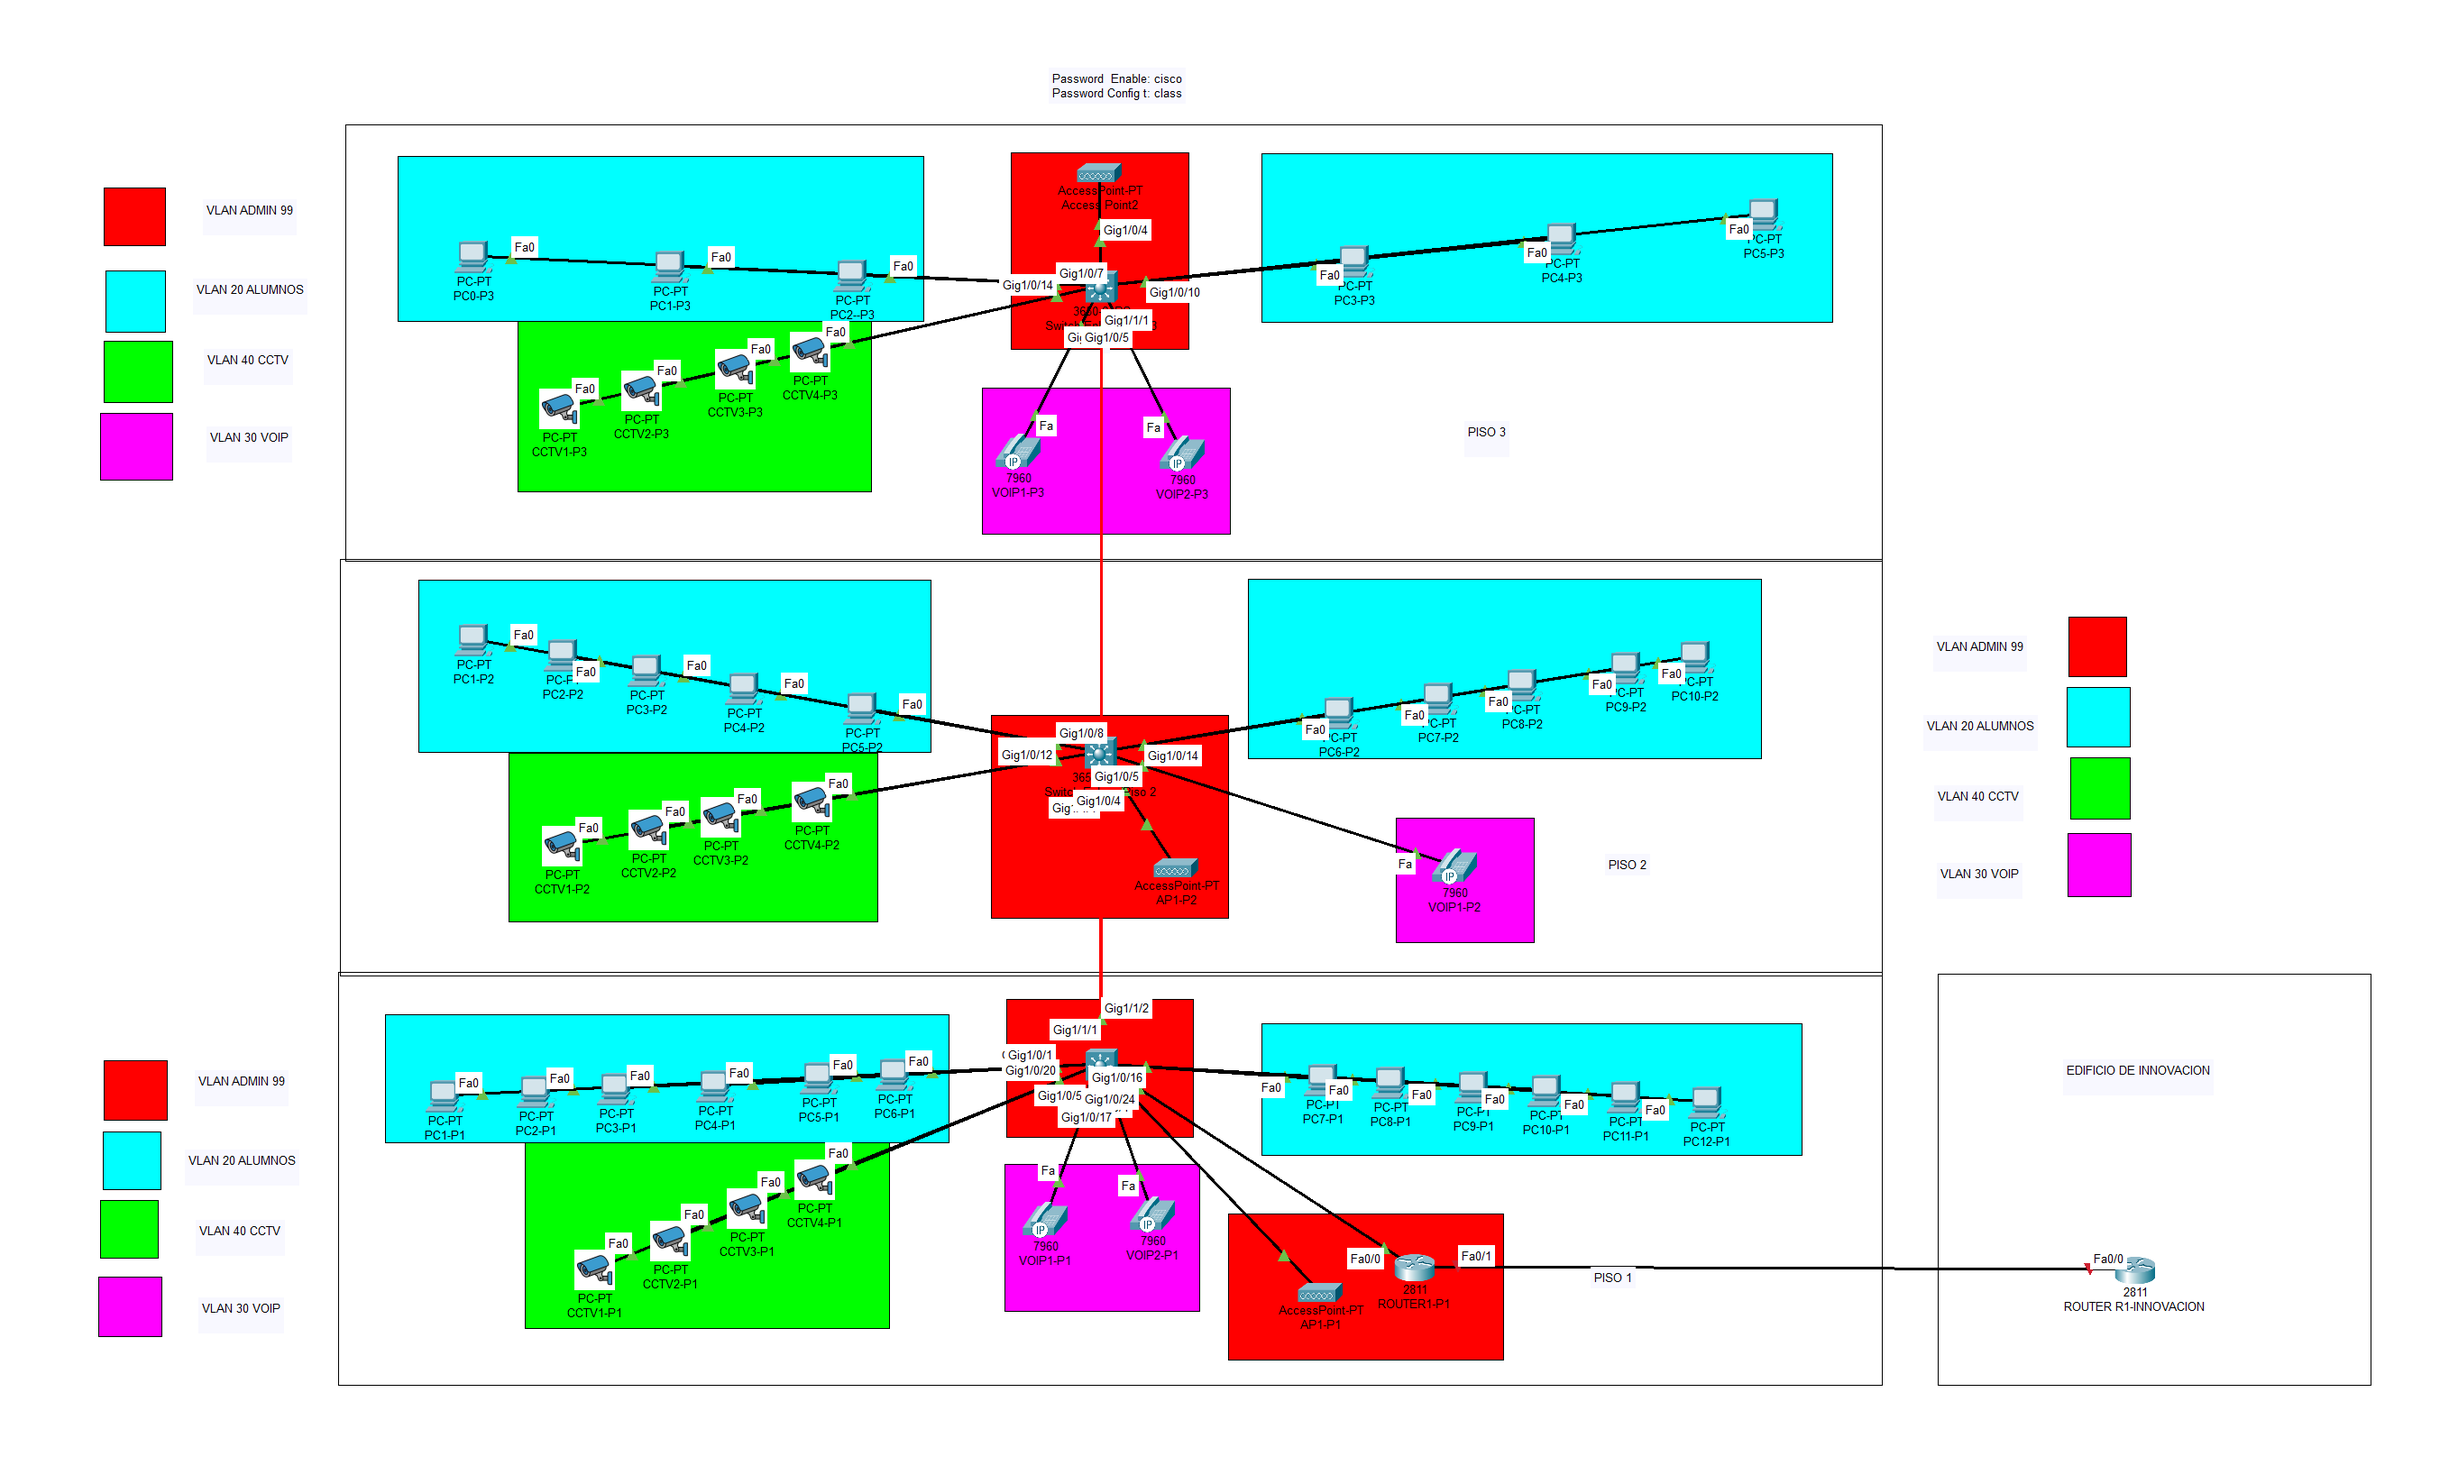
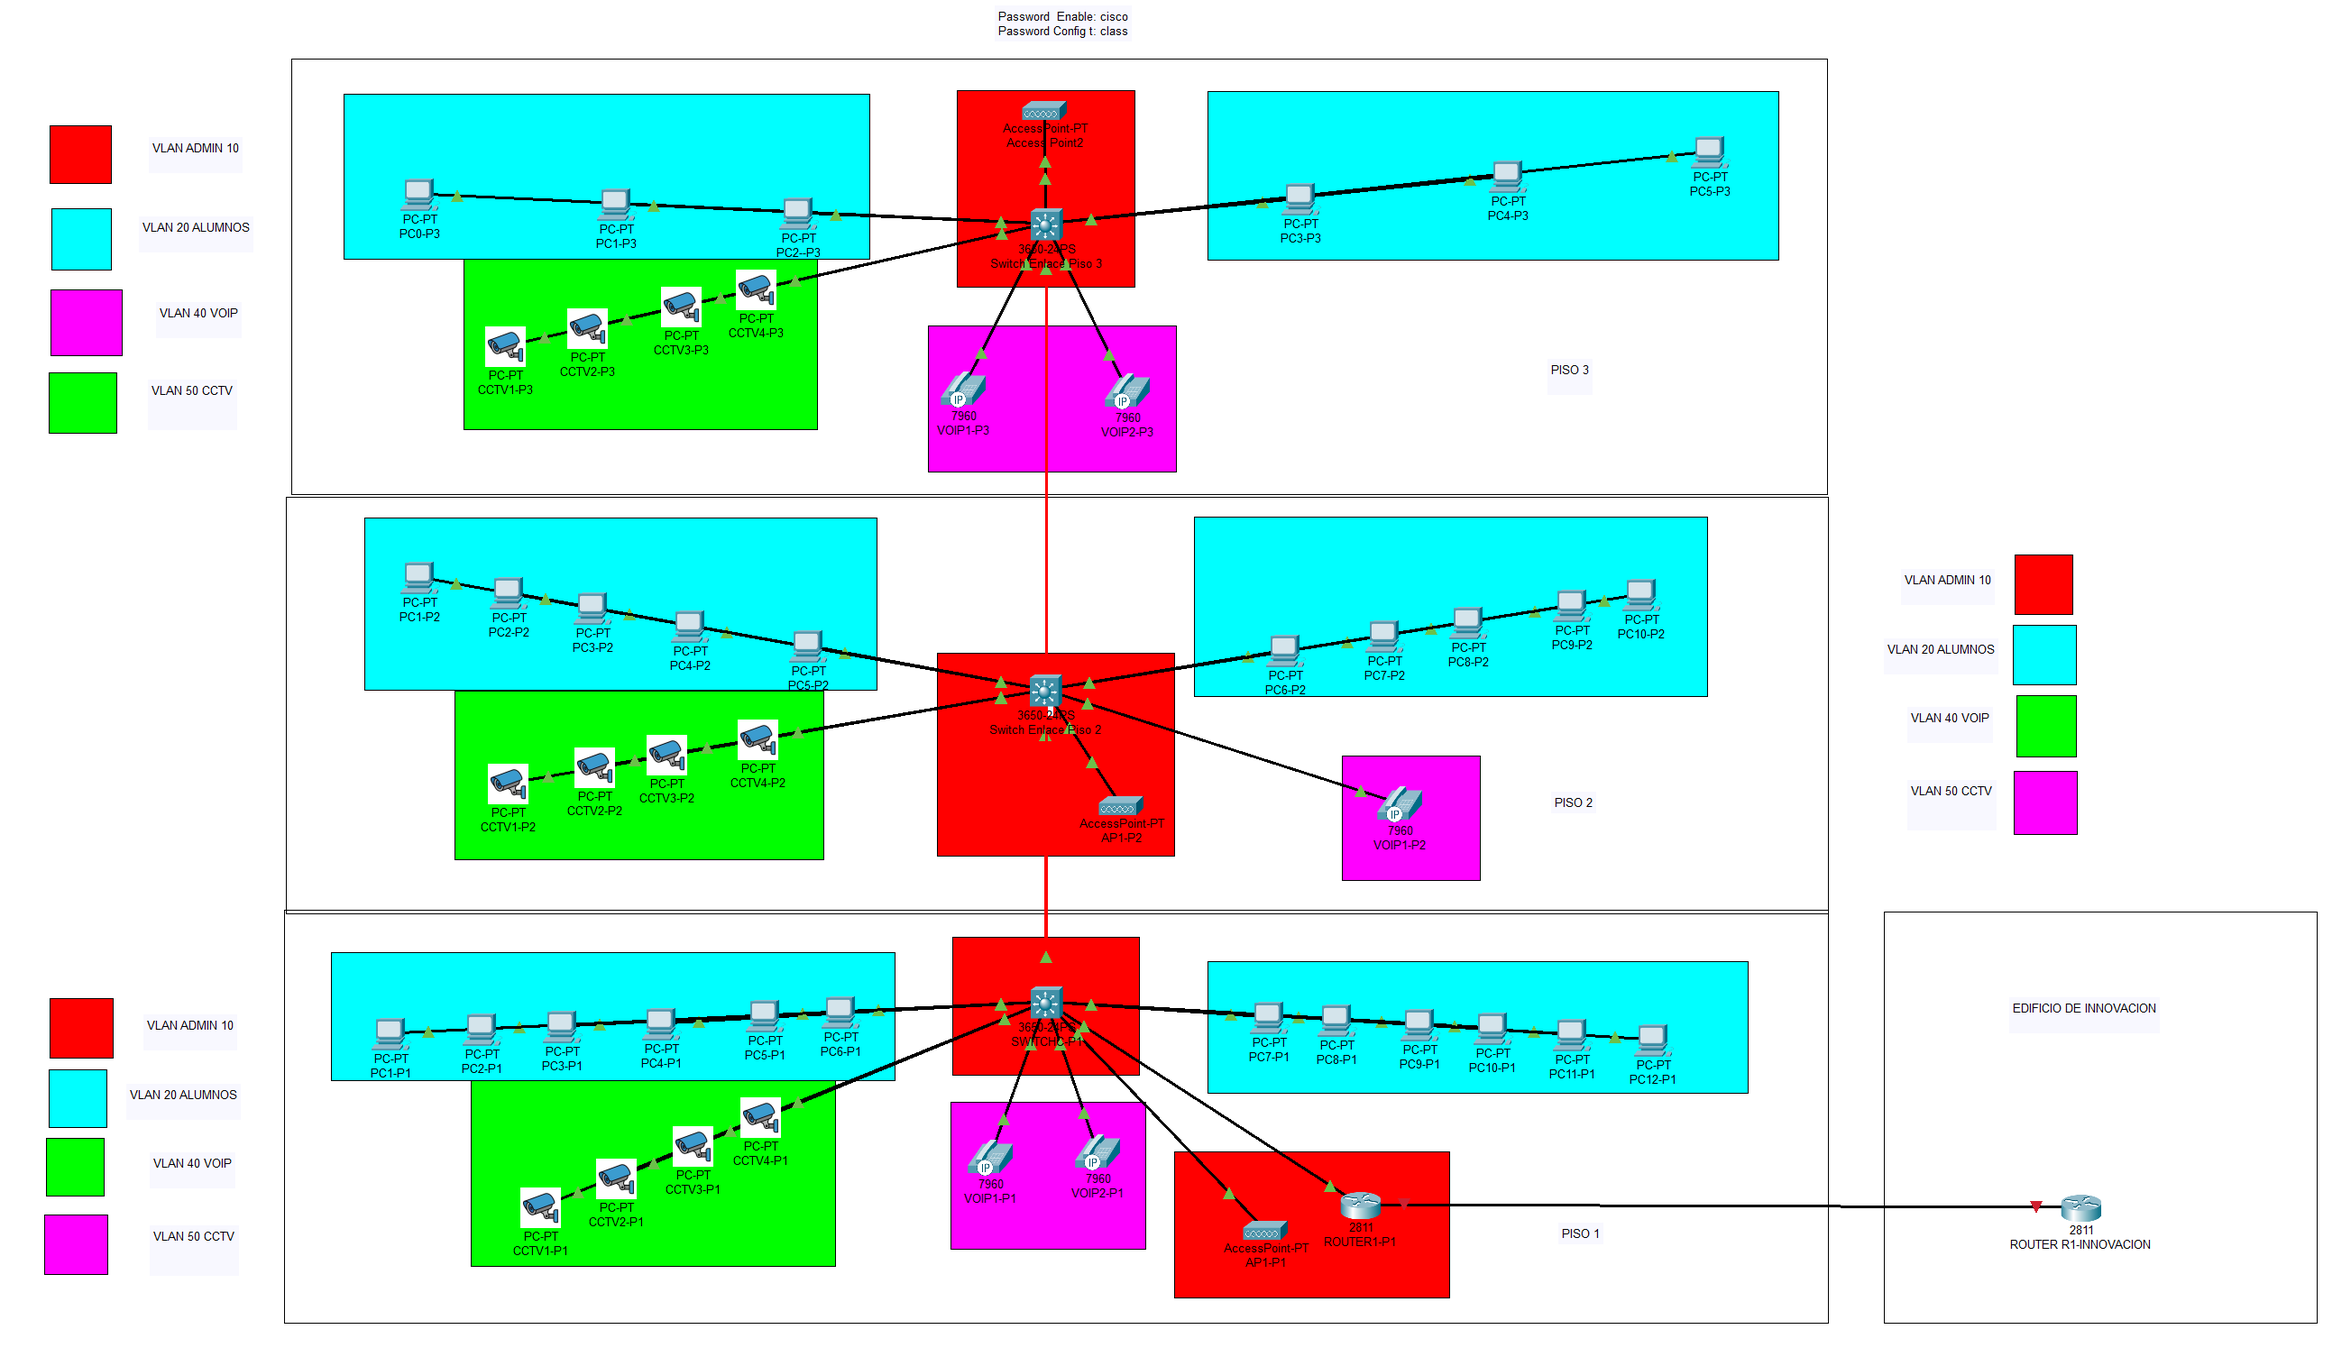
feat : add configuraciones and vlan sections

diff --git a/configuracion/configuraciones.tex b/configuracion/configuraciones.tex
@@ -1,0 +1,21 @@
+	\begin{center}
+	\href{https://drive.google.com/file/d/1mHfBjxOKNXVSxJJW_NH12IAQf1O9go8d/view?usp=sharing}{\textbf{Archivo de Packet Tracer del Proyecto (Click aquí)}}
+	\end{center}
+	\par \vspace{5mm} 
+	
+	\textbf{Configuración Lógica (Packet Tracer)}
+	\par \vspace{3mm}
+	
+	El archivo de Packet Tracer adjunto contiene la implementación funcional de la red. Se han aplicado las siguientes configuraciones clave en el equipo activo, de acuerdo con los requerimientos del proyecto:
+	
+	\begin{itemize}
+		\item \textbf{Configuraciones Básicas:} Se configuró en todos los switches y routers un \texttt{hostname} único (ej. \texttt{SW-Core-P1}, \texttt{RTR-Core-P1}, \texttt{SW-Acceso-P2}) para su identificación. Se establecieron contr contraseña de consola, VTY y de modo privilegiado (\texttt{enable secret}) con encriptación global (\texttt{service password-encryption}) para asegurar el acceso.
+		
+		\item \textbf{Configuración de VLANs:} Se crearon las VLANs con sus respectivos nombres (VLAN 10 ADMIN, 20 ALUMNOS, 30 PROFESORES, 40 VOIP, 50 CAMARAS) en el switch Core (Piso 1). Los puertos de acceso se asignaron a su VLAN correspondiente (ej. \texttt{switchport access vlan 20}) y los enlaces entre switches se configuraron como \texttt{trunk} para permitir el paso de todas las VLANs.
+		
+		\item \textbf{Telefonía IP (VLAN 40):} Los teléfonos VoIP están en la VLAN 40. Cada teléfono tiene asignada una extensión única (ej. 1001, 1002, 2001) y se ha verificado la comunicación por llamada entre ellos.
+		
+		\item \textbf{Videovigilancia (VLAN 50):} Las cámaras CCTV, representadas en el diagrama, están configuradas con IPs estáticas dentro del rango de la VLAN 50 (ej. \texttt{148.220.5.x}), asegurando una dirección fija.
+		
+		\item \textbf{Direccionamiento IPv4:} La asignación de direcciones IPv4 se basa en el plan VLSM, con los gateways (ej. \texttt{148.220.0.1}) configurados en el Switch Core de la capa distribucion \texttt({SW-Core-P1}) para permitir el enrutamiento inter-VLAN.
+	\end{itemize}

diff --git a/configuracion/vlan.tex b/configuracion/vlan.tex
@@ -1,0 +1,24 @@
+
+% Buscar imágenes en la carpeta ../images (carpeta hermana al directorio configuracion)
+\graphicspath{{../images/}}
+		\textbf{Diagrama Lógico y Asignación de Red (VLSM)}
+	\par \vspace{3mm}
+
+	\begin{figure}[h!]
+		\centering
+		\includegraphics[width=0.9\textwidth]{diagrama-logico-red-vlans}
+		
+		\caption{\textit{Diagrama Lógico de Segmentación por VLANs}}
+		\label{fig:diagrama-logico}
+		
+		\parbox{\textwidth}{
+			\vspace{2mm}
+			\small
+			\textit{Nota.} La figura muestra el diagrama lógico de la red, codificado por colores para representar la segmentación de VLANs implementada. Esta separación lógica aísla el tráfico entre departamentos y servicios para mejorar el rendimiento y la seguridad.
+		}
+	\end{figure}
+	
+	\par \vspace{3mm}
+	Para optimizar el uso del espacio de direcciones IP, se implementó un esquema de \textbf{Subnetting de Máscara de Longitud Variable (VLSM)} sobre el bloque de red base \texttt{148.220.0.0/21}. VLSM es una técnica que permite dividir un bloque de direcciones IP en subredes de diferentes tamaños, optimizando así la asignación de direcciones y minimizando el desperdicio (Singh \& Kaur, 2014).
+	
+	Como se observa en el diagrama (ver \textbf{Figura \ref{fig:diagrama-logico}}) y en el plan de direccionamiento anteriormente visto, las redes de usuarios (VLAN 20 Alumnos, VLAN 30 Profesores) se configuran con \textbf{DHCP} para una asignación automática de IPs. Por el contrario, la infraestructura (VLAN 10 Admin, VLAN 40 VoIP, VLAN 50 Cámaras) utiliza \textbf{asignación estática} para garantizar la seguridad. La primera IP utilizable de cada subred se reserva como \textbf{Gateway} y se configura en el Switch Core para permitir el enrutamiento entre las diferentes VLANs.

diff --git a/main.tex b/main.tex
@@ -13,6 +13,7 @@
 \usepackage{caption}
 \usepackage{subcaption}  
 \usepackage{array}
+\usepackage[colorlinks=true, urlcolor=blue]{hyperref} 
 % --- Configuración de captions estilo APA 7 ---
 \captionsetup{
 	justification=justified,
